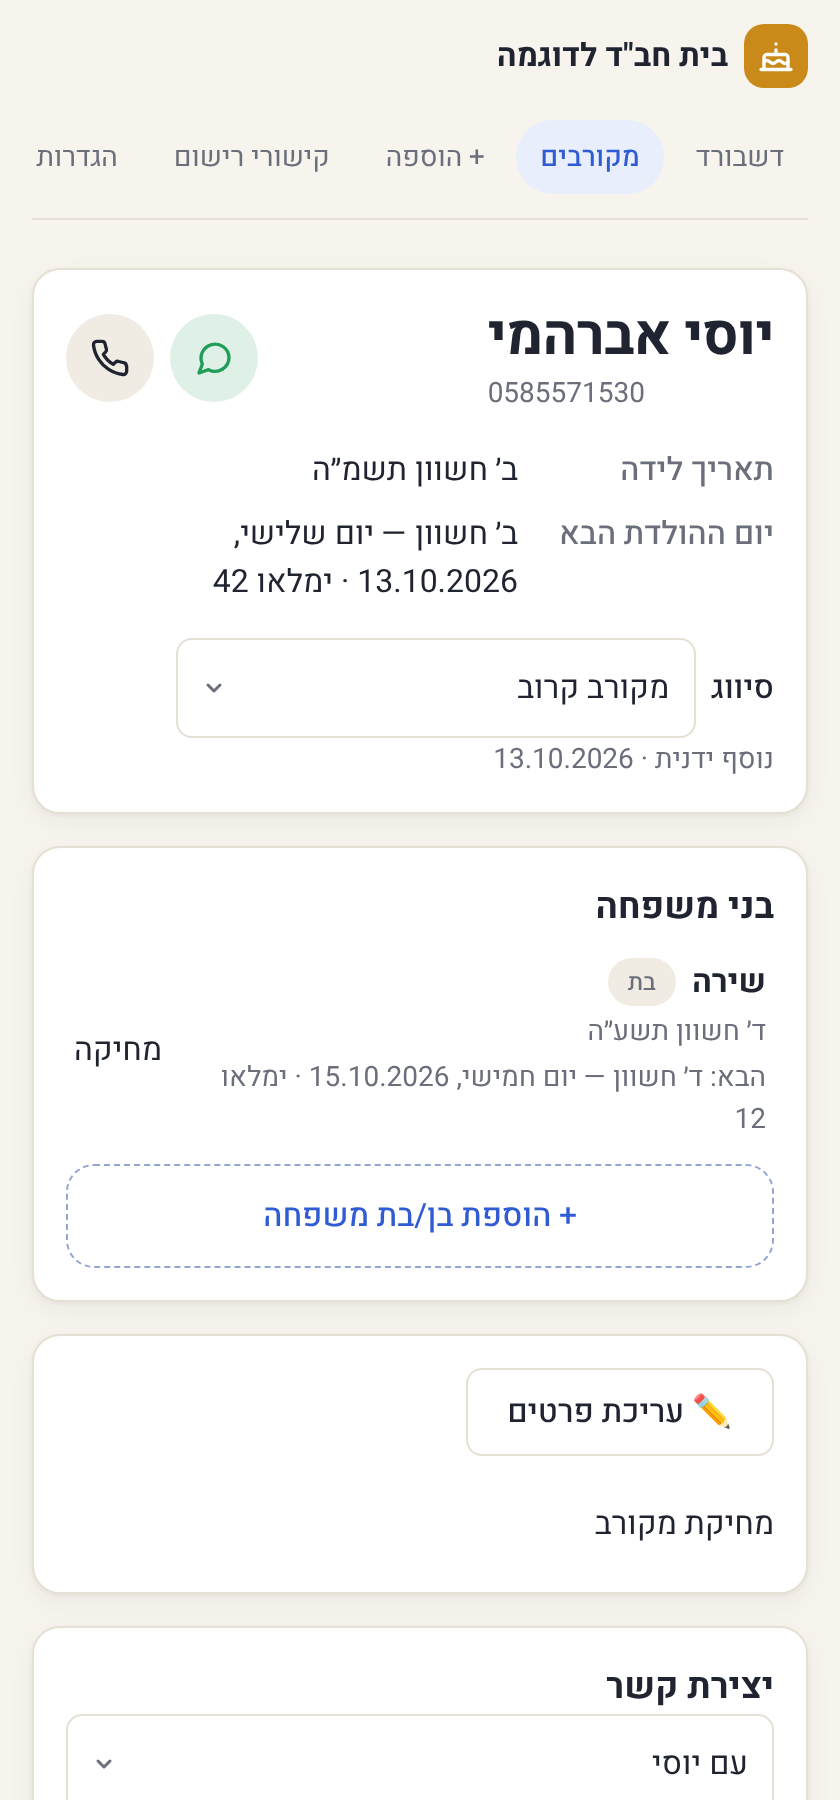
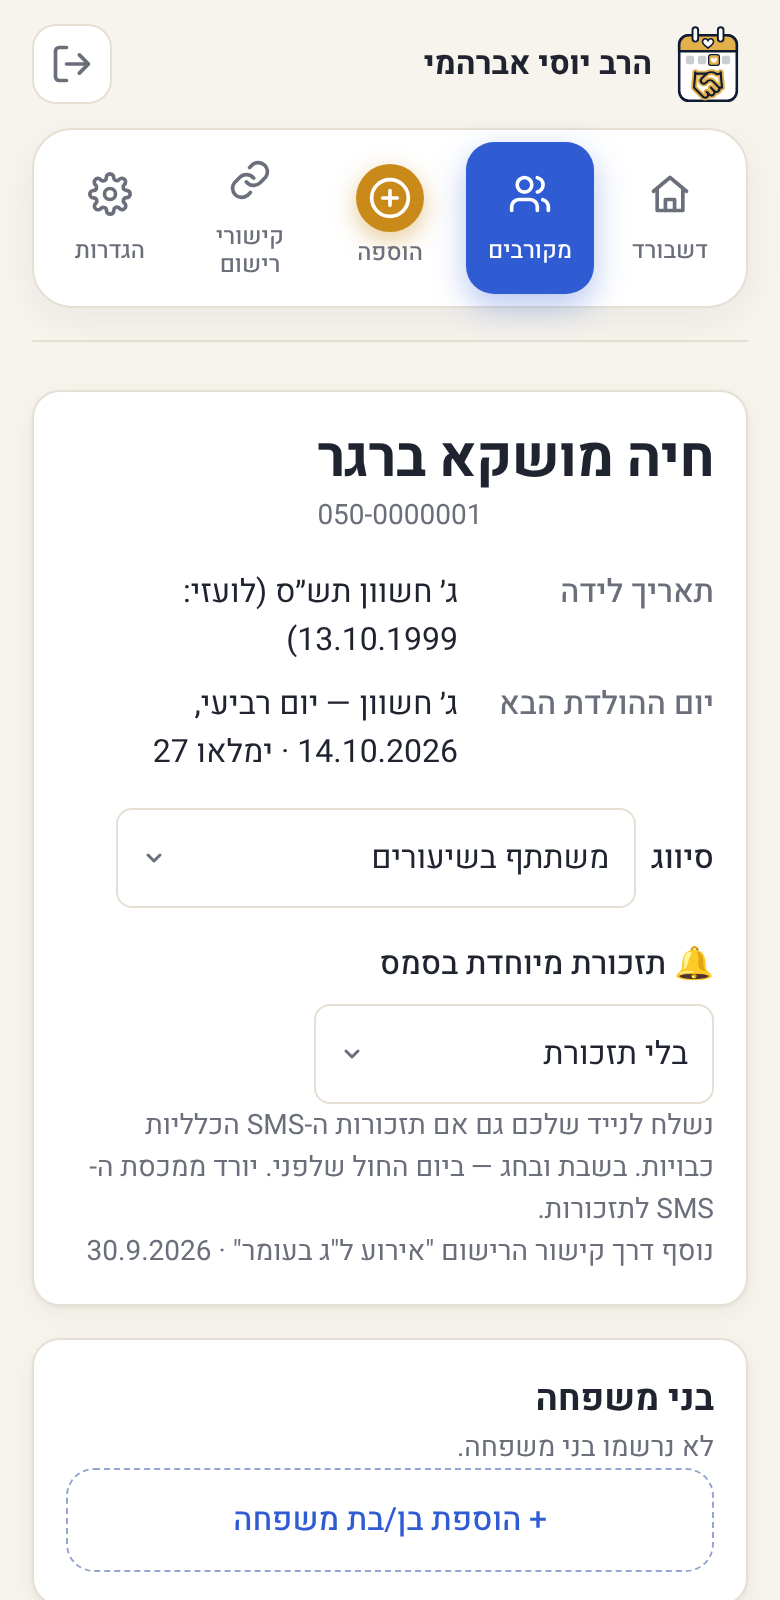
מיתוג חדש: "זכרתי התקשרתי" — לא מפספסים אף יום הולדת
- לוגו חדש (public/img/logo.svg): דף לוח עם יום מסומן בלב ולחיצת יד; בכל הכותרות, במסכי הכניסה ובדף הבית.
- אייקונים חדשים: favicon (SVG + 64), אפליקציה 192/512, maskable נפרד, אייקון אייפון; צבע ערכת נושא כחול.
- השם והסלוגן בכל מקום: כותרות, מניפסט (גם האישי לשליח), הודעות SMS (פרטי כניסה, קוד חד-פעמי),
  שיתוף, וואטסאפ, חשבון ההדגמה, README.
- דף הבית: כותרת "לא מפספסים אף יום הולדת", צילומי מסך חדשים מחשבון ההדגמה, ?v= גם לתמונות.

Claude-Session: https://claude.ai/code/session_01DmuYhEujfAHK3Wmvj5JfFm

diff --git a/server.js b/server.js
@@ -109,18 +109,18 @@ app.get('/', (req, res) => res.render('home'));
 function manifest({ name, short, start, scope }) {
   return {
     name, short_name: short, start_url: start, scope, id: start,
-    description: 'ימי הולדת עבריים של המקורבים — דשבורד, תזכורות ויצירת קשר',
+    description: 'זכרתי התקשרתי — לא מפספסים אף יום הולדת. ימי הולדת עבריים של המקורבים, תזכורות ויצירת קשר',
     display: 'standalone', dir: 'rtl', lang: 'he',
-    background_color: '#F7F4EE', theme_color: '#C98A1A',
+    background_color: '#FBF6EC', theme_color: '#0F1B33',
     icons: [
       { src: '/icons/icon-192.png', sizes: '192x192', type: 'image/png', purpose: 'any' },
       { src: '/icons/icon-512.png', sizes: '512x512', type: 'image/png', purpose: 'any' },
-      { src: '/icons/icon-512.png', sizes: '512x512', type: 'image/png', purpose: 'maskable' },
+      { src: '/icons/icon-maskable-512.png', sizes: '512x512', type: 'image/png', purpose: 'maskable' },
     ],
   };
 }
 app.get('/manifest.webmanifest', (req, res) => {
-  res.type('application/manifest+json').send(manifest({ name: 'ימי הולדת למקורבים', short: 'ימי הולדת', start: '/admin', scope: '/' }));
+  res.type('application/manifest+json').send(manifest({ name: 'זכרתי התקשרתי', short: 'זכרתי התקשרתי', start: '/admin', scope: '/' }));
 });
 
 app.get('/admin/login', (req, res) => {
@@ -341,7 +341,7 @@ const shliachUrl = (req, slug) => `${baseUrl(req)}/s/${slug}`;
 
 // SMS עם הקישור האישי לשליח. הקוד הקבוע נכלל רק ברגע שנקבע (אחר כך השרת לא יודע אותו)
 function welcomeMessage(s, url, code, isNew) {
-  const intro = isNew ? 'נפתח עבורך חשבון במערכת "ימי הולדת למקורבים".' : (code ? 'קוד הכניסה שלך למערכת "ימי הולדת למקורבים" עודכן.' : 'הקישור שלך למערכת "ימי הולדת למקורבים":');
+  const intro = isNew ? 'נפתח עבורך חשבון ב"זכרתי התקשרתי".' : (code ? 'קוד הכניסה שלך ל"זכרתי התקשרתי" עודכן.' : 'הקישור שלך ל"זכרתי התקשרתי":');
   const lines = [`שלום ${s.name}! 🎂`, intro, isNew || code ? `הקישור האישי שלך:\n${url}` : url];
   if (code) lines.push(`קוד הכניסה: ${code}`, '(אפשר להחליף אותו בהגדרות)');
   lines.push('אפשר גם להיכנס עם קוד חד-פעמי שיישלח לנייד הזה.');
@@ -567,7 +567,7 @@ const requireShliach = (req, res, next) => (req.authorized ? next() : res.redire
 
 router.get('/manifest.webmanifest', (req, res) => {
   const b = res.locals.base;
-  res.type('application/manifest+json').send(manifest({ name: `ימי הולדת — ${req.shliach.name}`, short: 'ימי הולדת', start: b, scope: b }));
+  res.type('application/manifest+json').send(manifest({ name: `זכרתי התקשרתי — ${req.shliach.name}`, short: 'זכרתי התקשרתי', start: b, scope: b }));
 });
 
 async function loadCategories(shliachId) {
@@ -647,7 +647,7 @@ router.post('/otp/send', async (req, res) => {
     [s.id, await bcrypt.hash(code, 10), OTP_TTL_MIN]);
   await q(`DELETE FROM login_codes WHERE created_at < now() - interval '1 day'`);
   try {
-    await sendToShliach(s, s.phone, `קוד הכניסה שלך ל"ימי הולדת למקורבים": ${code}\nבתוקף ${OTP_TTL_MIN} דקות. אין למסור אותו לאף אחד.`, 'otp');
+    await sendToShliach(s, s.phone, `קוד הכניסה שלך ל"זכרתי התקשרתי": ${code}\nבתוקף ${OTP_TTL_MIN} דקות. אין למסור אותו לאף אחד.`, 'otp');
   } catch (e) {
     console.error(`OTP לשליח ${s.id} נכשל:`, e.message);
     req.auditDetail = `שליחת SMS נכשלה: ${e.message}`; // הודעת ימות המשיח — לא מידע של השליח

diff --git a/public/css/home.css b/public/css/home.css
@@ -42,7 +42,7 @@ h1, h2, h3 { margin: 0; }
   padding: 12px max(16px, env(safe-area-inset-right)) 12px max(16px, env(safe-area-inset-left));
   background: rgb(15 27 51 / .72); backdrop-filter: blur(14px) saturate(1.4); border-bottom: 1px solid rgb(255 255 255 / .08); }
 .hm-brand { display: flex; align-items: center; gap: 10px; color: #fff; text-decoration: none; font: 900 1.15rem/1 var(--display); }
-.hm-brand img { border-radius: 10px; }
+.hm-brand img { border-radius: 0; }
 .hm-brand span { color: var(--gold); }
 
 /* ---------- באנר ראשי ---------- */

diff --git a/public/css/app.css b/public/css/app.css
@@ -264,3 +264,8 @@ div.bd-stat:hover { border-color: var(--bd-line); }
 .bd .bd-copy-btn { display: inline-flex; align-items: center; gap: 6px; }
 .bd .bd-copy-btn svg { width: 16px; height: 16px; }
 .bd .bd-copy-btn.is-copied { background: var(--bd-ok-soft); color: var(--bd-ok); }
+
+/* לוגו "זכרתי התקשרתי" */
+.bd-logo--mark { background: none; border-radius: 0; width: 40px; height: 40px; }
+.bd-logo--mark.bd-logo--lg { width: 84px; height: 84px; border-radius: 0; }
+.bd-mark { width: 100%; height: 100%; display: block; }

diff --git a/README.md b/README.md
@@ -1,4 +1,6 @@
-# ימי הולדת למקורבים
+# זכרתי התקשרתי
+**לא מפספסים אף יום הולדת.** (לשעבר "ימי הולדת למקורבים")
+
 
 מערכת לשלוחים למעקב אחרי ימי הולדת (עבריים ולועזיים) של מקורבים ובני משפחותיהם.
 
@@ -67,6 +69,7 @@
 הטבלאות נוצרות ומתעדכנות אוטומטית בעלייה. **שירות אחד בלבד** (replicas=1) — הגבלות הקצב נשמרות בזיכרון.
 
 ## עיצוב
+לוגו: `public/img/logo.svg` (דף לוח עם יום הולדת מסומן בלב ולחיצת יד); האייקונים ב-`public/icons` נוצרו ממנו (כולל maskable).
 מבוסס על חבילת העיצוב של המעצב: `public/css/tokens.css` ו-`public/css/components.css` (כמו שהם), ו-`public/css/app.css` להשלמות במסכים שהחבילה לא עיצבה. כל הצבעים במשתני `--bd-*`, כולל מצב כהה אוטומטי. התאריכים מחושבים בשרת (hebcal); `hebrew-date.js` מהחבילה לא בשימוש.
 
 ## גיבוי
